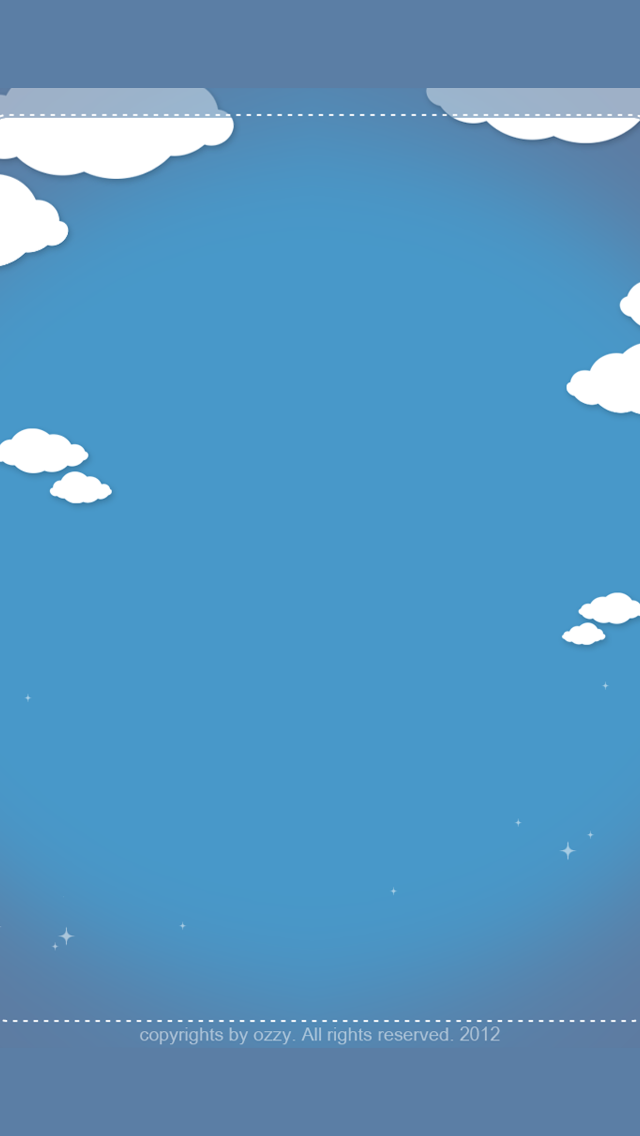
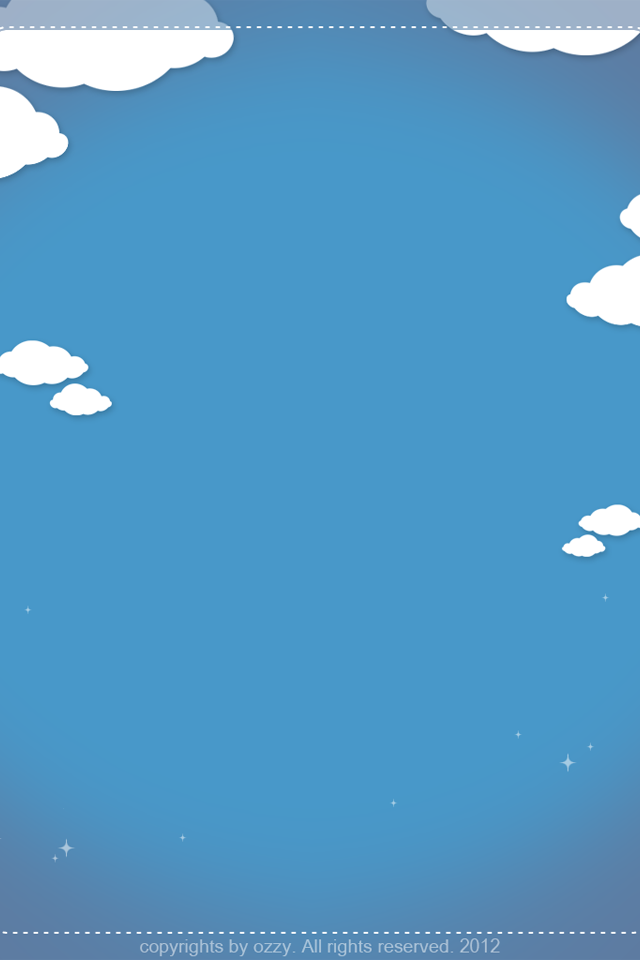
no message

diff --git a/kw4_x/Classes/MainMenuScene.cpp b/kw4_x/Classes/MainMenuScene.cpp
@@ -38,7 +38,16 @@ bool MainMenuScene::init()
 	auto frameSize = glview->getDesignResolutionSize();	
 	auto H_OFFSET = (frameSize.height - FRAME_HEIGHT)*0.5;
 
-	Sprite* background = Sprite::create("UI4HD/main_bg-hdx.png");
+	Sprite* background = NULL;
+	if (ResolutionPolicy::FIXED_WIDTH == glview->getResolutionPolicy())
+	{
+		background = Sprite::create("UI4HD/main_bg-hdx.png");
+	}
+	else
+	{
+		background = Sprite::create("UI4HD/main_bg-hd.png");
+	}
+	
 	background->setAnchorPoint(Point::ANCHOR_MIDDLE);
 	background->setPosition(frameSize.width*0.5f, frameSize.height*0.5f);
 	this->addChild(background, 0, 0);
